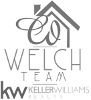
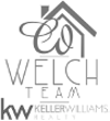
added taps, made keller williams bigger

diff --git a/client/components/race/race.component.html b/client/components/race/race.component.html
@@ -10,6 +10,7 @@
   </div>
   <div class="panel-body">
     <a href="http://www.thewattteam.com/" target="_blank"><img src="/assets/img/sponsors/silver/WattKey.png" alt="The Watt Team" /></a>
+    <a href="http://tapsbarandgrill.com/" target="_blank"><img src="/assets/img/sponsors/silver/TAPs.png" alt="TAPs Bar and Grill" /></a>
   </div>
 </div>
 

diff --git a/client/components/sponsors/sponsors.component.html b/client/components/sponsors/sponsors.component.html
@@ -4,6 +4,7 @@
   </div>
   <div class="panel-body">
     <a href="http://www.thewattteam.com/" target="_blank"><img src="/assets/img/sponsors/silver/WattKey.png" alt="The Watt Team" /></a>
+    <a href="http://tapsbarandgrill.com/" target="_blank"><img src="/assets/img/sponsors/silver/TAPs.png" alt="TAPs Bar and Grill" /></a>
   </div>
 </div>
 
